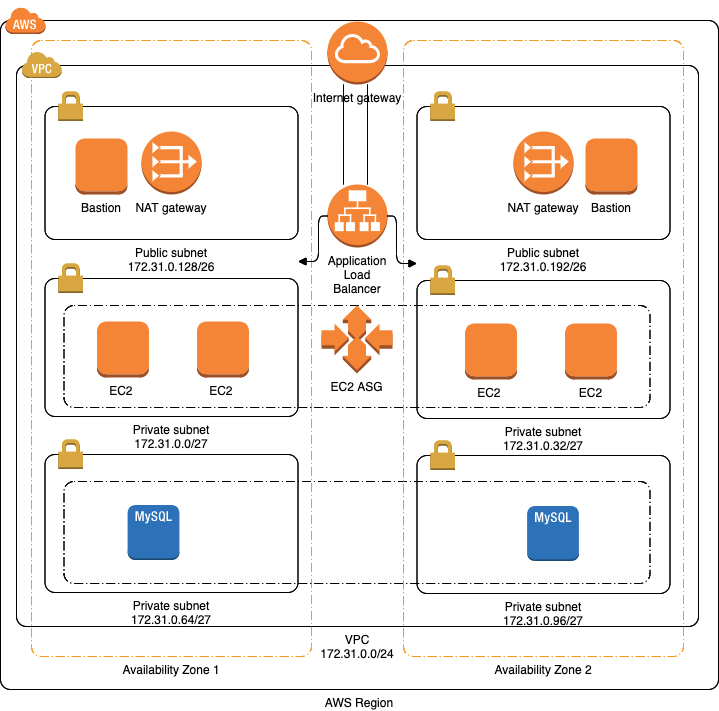
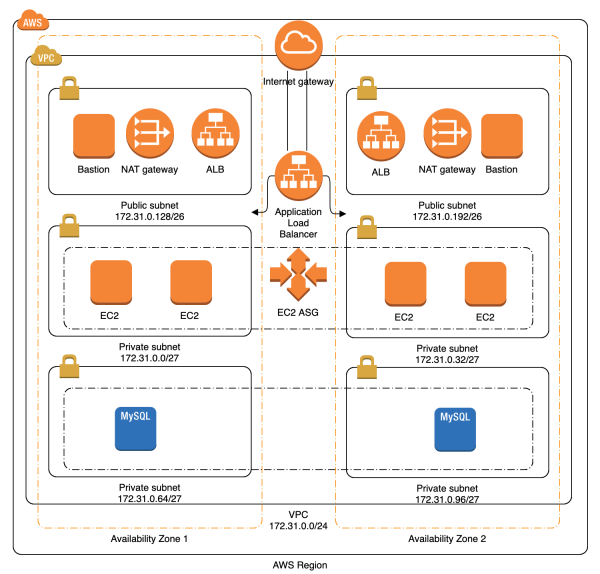
Added readme for terraform (#100)

Changed region(s): [[0.0, 0.0, 1.0, 1.0]]

diff --git a/todo-app/aws/README.md b/todo-app/aws/README.md
@@ -1,0 +1,207 @@
+# Deploy Todo Application with RDS(MySql) on AWS EC2
+
+![Terraform Plan](https://github.com/Raghav2211/psi-lab/workflows/Terraform%20Plan/badge.svg)
+
+![Todo-RDS-MySql-EC2](todo_phase_1.png)
+
+## About ##
+This is an example showing how to deploy a Todo application integrated with RDS(MySql) on to multiple AZs.
+
+1. Here application  and dataBase are deployed in different private subnets which are not directly accessible to outside world.
+2. Bastion is on  public subnet which will provide access through ssh to connect to application(EC2) or database (RDS)  for troubleshooting.
+3. Nat Gateway provides access to internet to the private subnets.
+4. For deploying application on to EC2 we need an AMI (Amazon Machine Image) which will be created using packer.
+5. To get high availability of Todo App, we deploy our Todo app to run on at least two Availability Zones (AZs). The load balancer also needs at least 2 public subnets in different AZs.
+
+## Prerequisite ##
+
+- Install AWS CLI
+
+  `https://cloudaffaire.com/how-to-install-aws-cli/`
+  
+- Install Terraform
+
+  `https://learn.hashicorp.com/tutorials/terraform/install-cli`
+  
+- Setup AWS credentials
+
+  `https://docs.aws.amazon.com/cli/latest/userguide/cli-configure-quickstart.html`
+
+## Deploy ##
+
+
+- Create AMI
+ 
+``` bash
+  # Go to packer 
+  $ cd 3-tier-app/packer/todo
+    
+  # Create ssh key for ssh in todo cluster
+  $ ssh-keygen -t rsa -C "<email-address>" -f todo
+    
+  # export variables for packer
+  $ export APP_VERSION="<todo-app-version>"
+  $ export AWS_REGION="<region>"
+    
+  # Build AMI       
+  $ packer build todo.json
+    
+```
+
+- Deploy AWS stack
+
+```bash 
+  
+  # Go to environment folder in which you want to deploy cluster
+  $ cd ../../<env>
+  
+  # Create VPC
+  $ terraform apply -var-file=vpc/terraform.tfvars vpc 
+  
+  # Create security groups
+  $ terraform apply -var-file=security/terraform.tfvars security 
+  
+  # Create RDS(MySql) cluster
+  $ terraform apply -var-file=database/mysql/terraform.tfvars database/mysql
+  
+  # Create Todo App EC2 cluster
+  $ terraform apply -var-file=services/todo/app/terraform.tfvars services/todo/app
+    
+```
+
+## To check the application ##
+
+- Login to AWS console using your own credentials
+- Click on  services and then to EC2
+- Under EC2 click on LoadBalancers
+- Under LoadBalancers copy DNS Name
+- Goto ->> `http://<ALB-DNS>/swagger-ui/`
+- Now you should see the swagger page for TODO application
+
+
+## Troubleshoot ##
+
+- Create Bastion host & SSH Todo App EC2 instance(s)
+
+```bash
+  # Deploy bastion host
+  $ terraform apply -var-file=bastion/terraform.tfvars bastion
+   
+  # Add todo private key to key chain
+  $ ssh-add -k <todo_pem_file>
+   
+  # Access the Bastion Host
+  $ ssh -i <bastion_pem_file> -A <bastion_user>@<basion_public_ip>
+   
+  # Access the private instance
+  $ ssh todo@<todo_private_ip>
+   
+  # Get status
+  $ sudo systemctl status todo
+
+```
+
+## Folder layout 
+```
+.
+|-- lab
+|   |-- bastion
+|   |   |-- main.tf
+|   |   |-- terraform.tfstate
+|   |   |-- terraform.tfstate.backup
+|   |   |-- terraform.tfvars
+|   |   |-- variables.tf
+|   |   `-- versions.tf
+|   |-- database
+|   |   |-- mysql
+|   |   |   |-- main.tf
+|   |   |   |-- terraform.tfstate
+|   |   |   |-- terraform.tfstate.backup
+|   |   |   |-- terraform.tfvars
+|   |   |   |-- variables.tf
+|   |   |   `-- versions.tf
+|   |   |-- terraform.tfstate
+|   |   `-- terraform.tfstate.backup
+|   |-- main.tf
+|   |-- security
+|   |   |-- main.tf
+|   |   |-- terraform.tfstate
+|   |   |-- terraform.tfstate.backup
+|   |   |-- terraform.tfvars
+|   |   |-- variables.tf
+|   |   `-- versions.tf
+|   |-- services
+|   |   `-- todo
+|   |       `-- app
+|   |           |-- main.tf
+|   |           |-- templates
+|   |           |   `-- deployment.tpl
+|   |           |-- terraform.tfvars
+|   |           `-- variables.tf
+|   |-- terraform.tfstate
+|   |-- terraform.tfstate.backup
+|   |-- terraform.tfvars
+|   |-- versions.tf
+|   `-- vpc
+|       |-- main.tf
+|       |-- terraform.tfstate
+|       |-- terraform.tfstate.backup
+|       |-- terraform.tfvars
+|       |-- variables.tf
+|       |-- versions.tf
+|       `-- vpc.tfvars
+|-- modules
+|   |-- app-server
+|   |   |-- main.tf
+|   |   |-- variables.tf
+|   |   `-- version.tf
+|   |-- bastion
+|   |   |-- example
+|   |   |   `-- main.tf
+|   |   |-- main.tf
+|   |   |-- userdata
+|   |   |   `-- user.tpl
+|   |   `-- variables.tf
+|   |-- database
+|   |   `-- mysql
+|   |       |-- example
+|   |       |   |-- main.tf
+|   |       |   `-- outputs.tf
+|   |       |-- main.tf
+|   |       |-- variables.tf
+|   |       `-- version.tf
+|   |-- ec2
+|   |   |-- main.tf
+|   |   |-- outputs.tf
+|   |   `-- variables.tf
+|   `-- network
+|       |-- example
+|       |   |-- main.tf
+|       |   `-- outputs.tf
+|       |-- main.tf
+|       |-- outputs.tf
+|       |-- variables.tf
+|       `-- version.tf
+`-- packer
+    `-- todo
+        |-- app.json
+        |-- scripts
+        |   `-- installer.sh
+        `-- services
+            |-- app.service
+            `-- bootstrap.sh
+```
+
+
+## AWS Resources used for Todo Application
+
+- AWS EBS (Elastic Block Storage)
+- AWS EC2 (Elastic Compute Cloud)
+- AWS RDS (Relational Database Service)
+- AWS VPC (Virtual Private Cloud)
+- AWS IGW (Internet GateWay)
+- AWS ALB (Application Load Balancer)
+- AWS ASG (Auto Scaling Group)
+- AWS NAT (Network Address Translation)
+- AWS SG  (Security Group)
+- AWS AMI (Amazon Machine Image)
